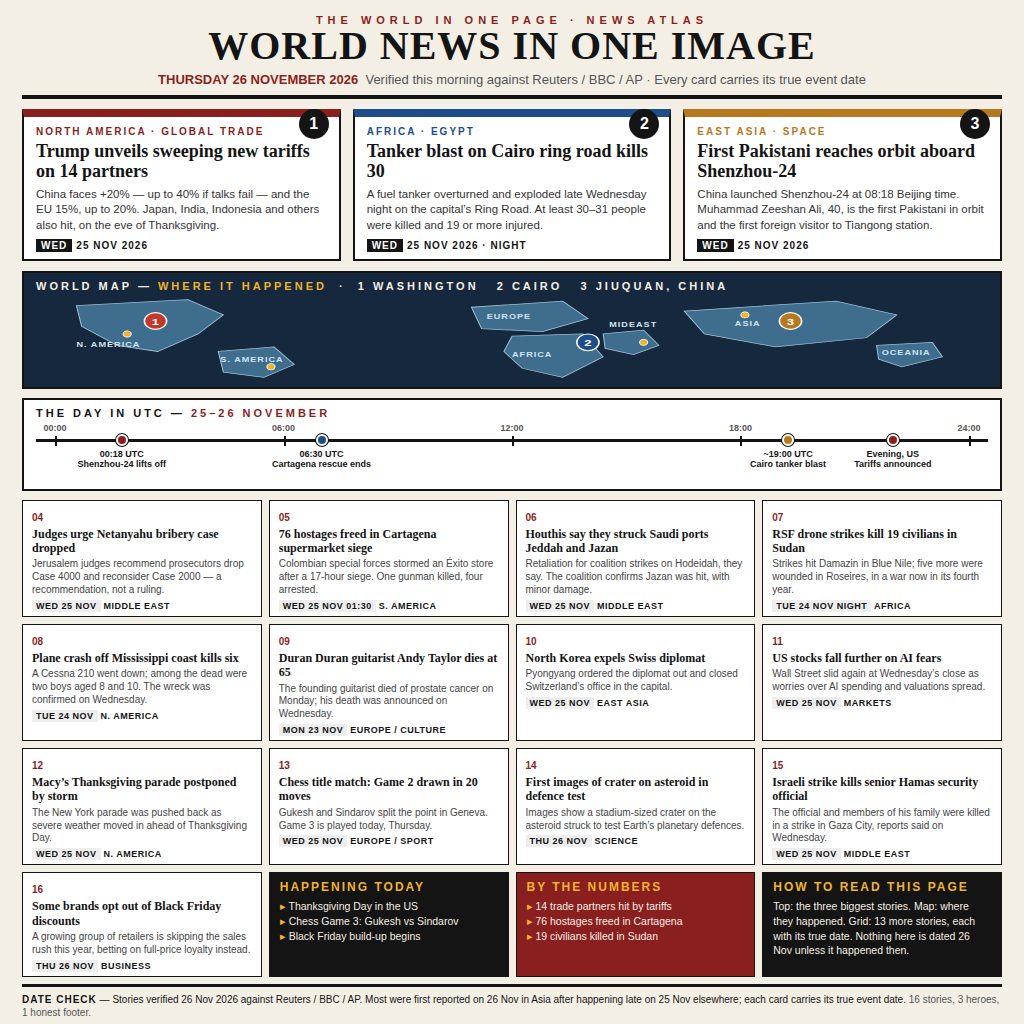
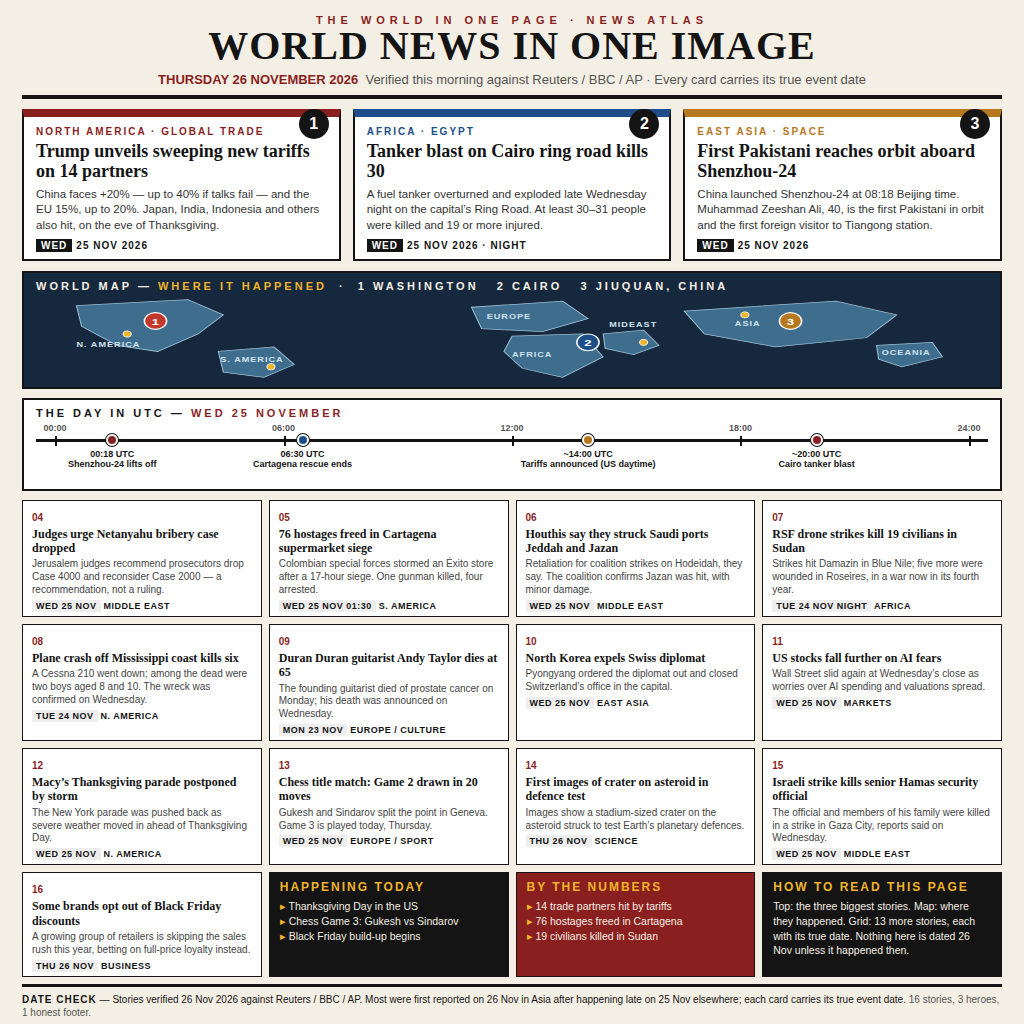
Fix UTC timeline order: tariffs before Cairo blast

diff --git a/poster.html b/poster.html
@@ -141,7 +141,7 @@
 </div>
 
 <div class="timeline">
-  <h3>THE DAY IN UTC &mdash; <span>25&ndash;26 NOVEMBER</span></h3>
+  <h3>THE DAY IN UTC &mdash; <span>WED 25 NOVEMBER</span></h3>
   <div class="track">
     <div class="line"></div>
     <div class="tick" style="left:2%"></div><div class="ticklab" style="left:2%">00:00</div>
@@ -149,10 +149,10 @@
     <div class="tick" style="left:50%"></div><div class="ticklab" style="left:50%">12:00</div>
     <div class="tick" style="left:74%"></div><div class="ticklab" style="left:74%">18:00</div>
     <div class="tick" style="left:98%"></div><div class="ticklab" style="left:98%">24:00</div>
-    <div class="ev" style="left:9%"><div class="dot"></div><div class="et">00:18 UTC<br>Shenzhou-24 lifts off</div></div>
-    <div class="ev" style="left:30%"><div class="dot" style="background:#1d4e89"></div><div class="et">06:30 UTC<br>Cartagena rescue ends</div></div>
-    <div class="ev" style="left:79%"><div class="dot" style="background:#b7791f"></div><div class="et">~19:00 UTC<br>Cairo tanker blast</div></div>
-    <div class="ev" style="left:90%"><div class="dot"></div><div class="et">Evening, US<br>Tariffs announced</div></div>
+    <div class="ev" style="left:8%"><div class="dot"></div><div class="et">00:18 UTC<br>Shenzhou-24 lifts off</div></div>
+    <div class="ev" style="left:28%"><div class="dot" style="background:#1d4e89"></div><div class="et">06:30 UTC<br>Cartagena rescue ends</div></div>
+    <div class="ev" style="left:58%"><div class="dot" style="background:#b7791f"></div><div class="et">~14:00 UTC<br>Tariffs announced (US daytime)</div></div>
+    <div class="ev" style="left:82%"><div class="dot"></div><div class="et">~20:00 UTC<br>Cairo tanker blast</div></div>
   </div>
 </div>
 
